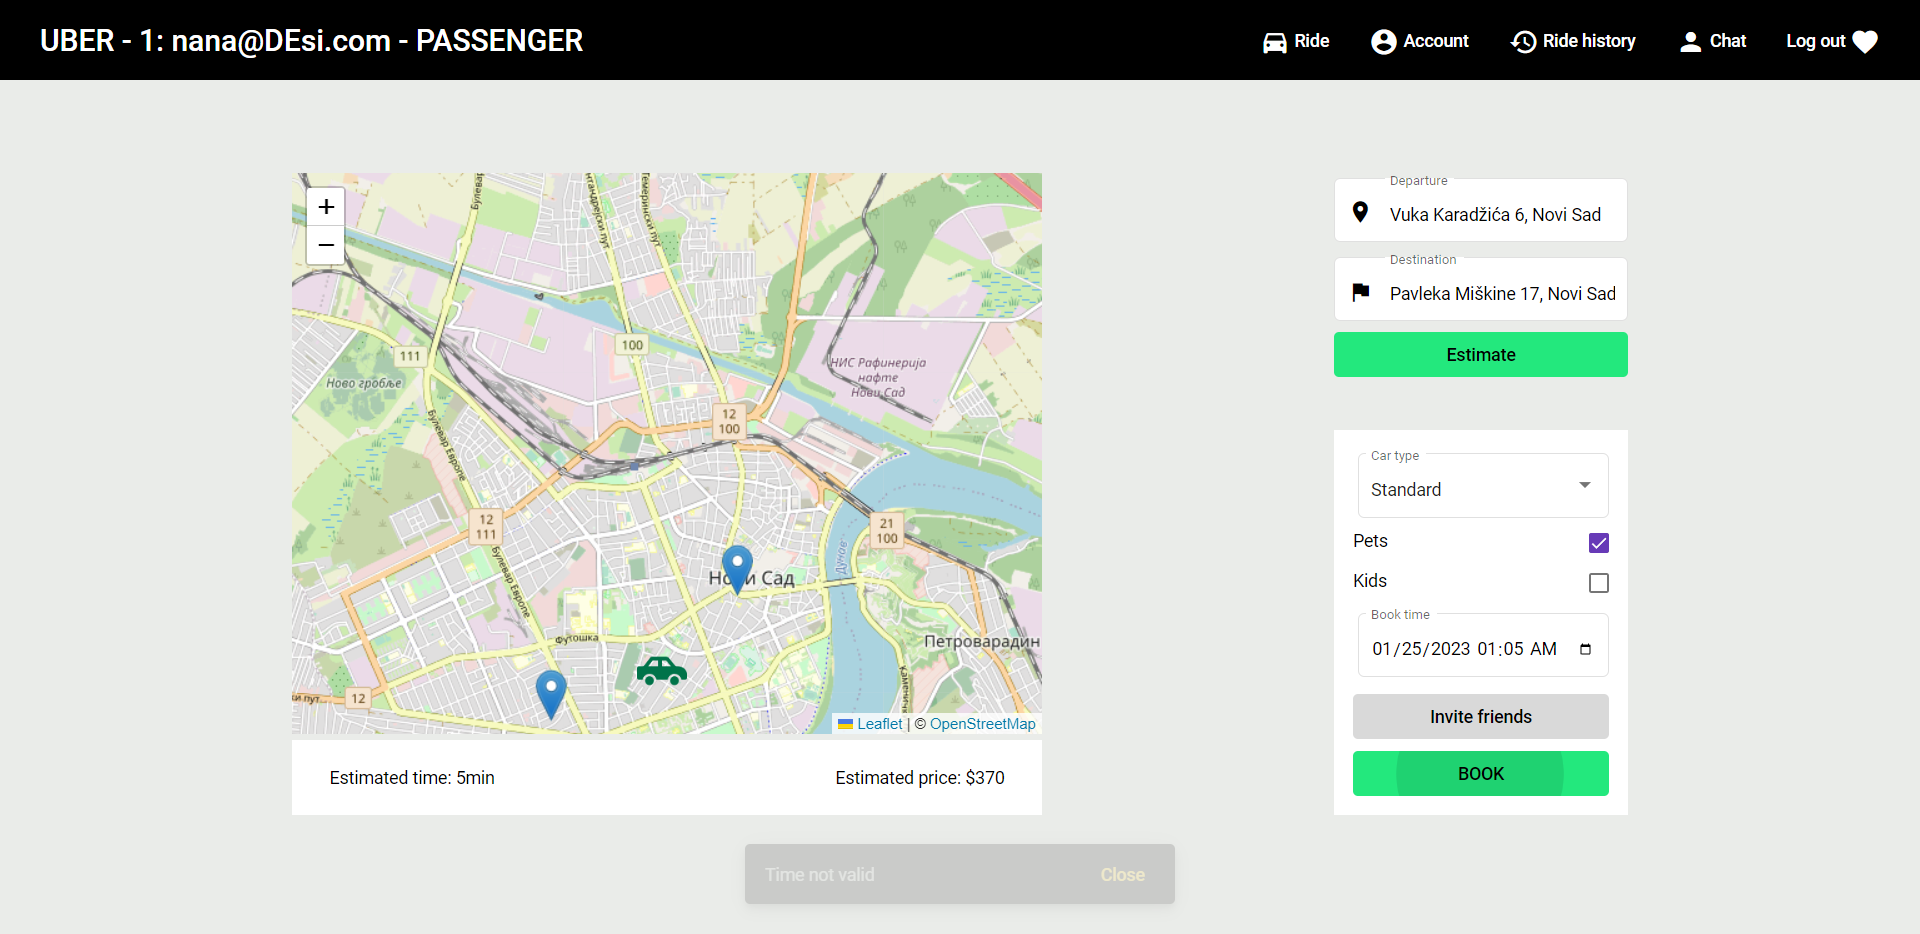
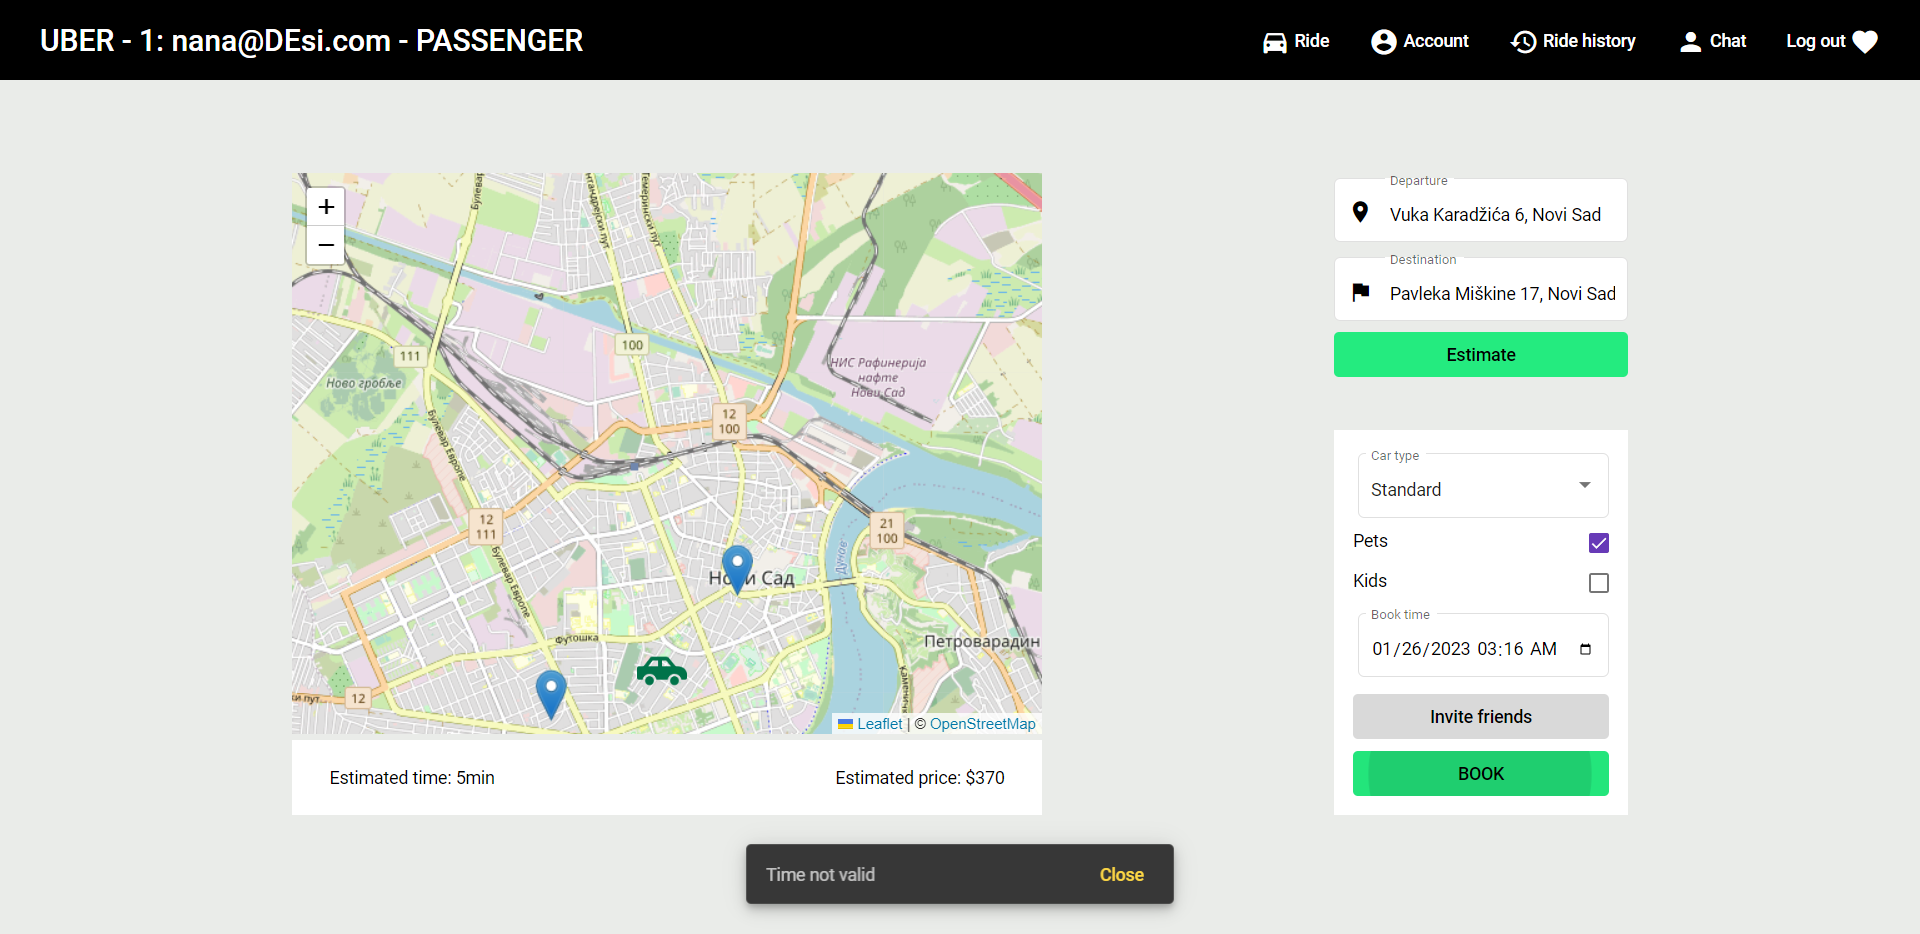
Add waiting for popups

Changed region(s): [[0.375, 0.9004, 0.625, 0.9936], [0.6875, 0.8073, 0.75, 0.8694], [0.8125, 0.8073, 0.8438, 0.8694]]

diff --git a/src/test/java/booking/pages/BookingPage.java b/src/test/java/booking/pages/BookingPage.java
@@ -7,11 +7,8 @@ import org.openqa.selenium.WebElement;
 import org.openqa.selenium.support.FindBy;
 import org.openqa.selenium.support.PageFactory;
 import org.openqa.selenium.support.ui.ExpectedConditions;
-import org.openqa.selenium.support.ui.Select;
 import org.openqa.selenium.support.ui.WebDriverWait;
 
-import java.security.Key;
-import java.time.LocalDate;
 import java.time.LocalDateTime;
 import java.time.format.DateTimeFormatter;
 
@@ -99,7 +96,7 @@ public class BookingPage {
     }
 
     public void clickEstimate() {
-        (new WebDriverWait(driver, 3))
+        (new WebDriverWait(driver, 20))
                 .until(ExpectedConditions.elementToBeClickable(estimateButton)).click();
         System.out.println(estimatedPriceLabel.getText());
         (new WebDriverWait(driver, 7))
@@ -193,15 +190,34 @@ public class BookingPage {
                 .until(ExpectedConditions.elementToBeClickable(swalOkButton)).click();
     }
 
-    public void exitSwalPopUp2() {
+    public void waitForNoAvailableVehiclePopUp() {
         (new WebDriverWait(driver, 3))
-                .until(ExpectedConditions.visibilityOf(swalOkButtonRideAccepted));
-        (new WebDriverWait(driver, 3))
-                .until(ExpectedConditions.elementToBeClickable(swalOkButtonRideAccepted)).click();
+                .until(ExpectedConditions.presenceOfElementLocated(By.xpath("//h2[contains(., \"Booking failed :(\")]")));
+//        (new WebDriverWait(driver, 3))
+//                .until(ExpectedConditions.presenceOfElementLocated(By.xpath("//button[contains(., \"OK\")]")));
+//        (new WebDriverWait(driver, 3))
+//                .until(ExpectedConditions.elementToBeClickable(By.xpath("//button[contains(., \"OK\")]")));
     }
 
-    public void waitForPopUp() {
+    public void waitForBookingSucessfullPopUp() {
         (new WebDriverWait(driver, 3))
-                .until(ExpectedConditions.stalenessOf(swalOkButton));
+                .until(ExpectedConditions.presenceOfElementLocated(By.xpath("//div[starts-with(., \"Driver has been appointed.\")]")));
+    }
+
+    public void waitForRidePendingPopUp() {
+        (new WebDriverWait(driver, 3))
+                .until(ExpectedConditions.presenceOfElementLocated(By.xpath("//h2[contains(., \"Oops...\")]")));
+    }
+
+    public void waitForTimeNotValid() {
+        (new WebDriverWait(driver, 3))
+                .until(ExpectedConditions.presenceOfElementLocated(By.xpath("//span[contains(., \"Time not valid\")]")));
+        (new WebDriverWait(driver, 3))
+                .until(ExpectedConditions.elementToBeClickable(By.xpath("//button[contains(., \"Close\")]")));
+    }
+
+    public void closeSnackBar() {
+        (new WebDriverWait(driver, 3))
+                .until(ExpectedConditions.presenceOfElementLocated(By.xpath("//button[contains(., \"Close\")]"))).click();
     }
 }

diff --git a/src/test/java/booking/tests/BookRideTest.java b/src/test/java/booking/tests/BookRideTest.java
@@ -28,10 +28,13 @@ public class BookRideTest extends TestBaseForBooking {
         bookingPage.clickEstimate();
         bookingPage.clickPetCheckbox();
         bookingPage.clickBook();
+        bookingPage.waitForTimeNotValid();
         takeScreenshoot(driver, "booking_time_not_selected");
+        bookingPage.closeSnackBar();
         bookingPage.clickEstimate();
         bookingPage.selectInvalidDate();
         bookingPage.clickBook();
+        bookingPage.waitForTimeNotValid();
         takeScreenshoot(driver, "booking_time_not_valid");
     }
 
@@ -44,7 +47,7 @@ public class BookRideTest extends TestBaseForBooking {
         bookingPage.clickEstimate();
         bookingPage.selectValidDate();
         bookingPage.clickBook();
-//        bookingPage.waitForPopUp();
+        bookingPage.waitForNoAvailableVehiclePopUp();
         takeScreenshoot(driver, "booking_no_vehicles");
     }
 
@@ -59,13 +62,13 @@ public class BookRideTest extends TestBaseForBooking {
         bookingPage.selectDropDown(VEHICLE_TYPE);
         bookingPage.selectValidDate();
         bookingPage.clickBook();
+        bookingPage.waitForBookingSucessfullPopUp();
         takeScreenshoot(driver, "booking_successful");
     }
 
     @Test(priority = 5)
     public void bookRideAlreadyPending() {
         BookingPage bookingPage = new BookingPage(driver);
-        takeScreenshoot(driver, "booking_no_vehicles");
         bookingPage.reloadPage();
         bookingPage.fillDepartureTextBox(DEPARTURE_ADDRESS);
         bookingPage.fillDestinationTextBox(DESTINATION_ADDRESS);
@@ -73,6 +76,7 @@ public class BookRideTest extends TestBaseForBooking {
         bookingPage.selectDropDown(VEHICLE_TYPE);
         bookingPage.selectValidDate();
         bookingPage.clickBook();
+        bookingPage.waitForRidePendingPopUp();
         takeScreenshoot(driver, "booking_ride_already_pending");
     }
 }
